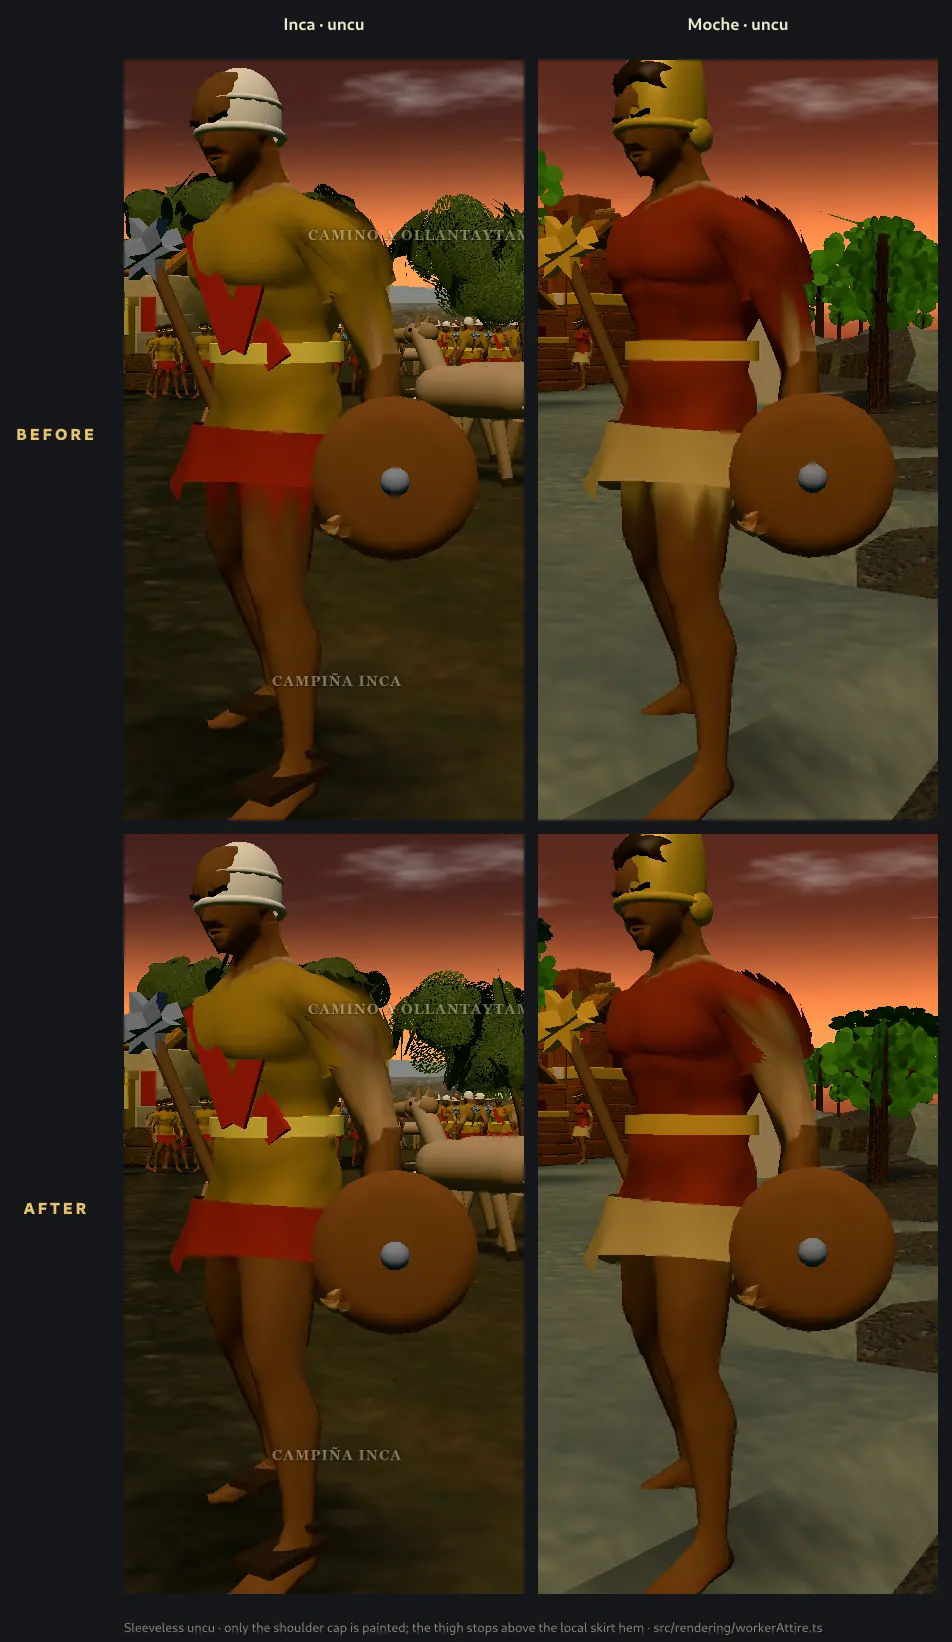
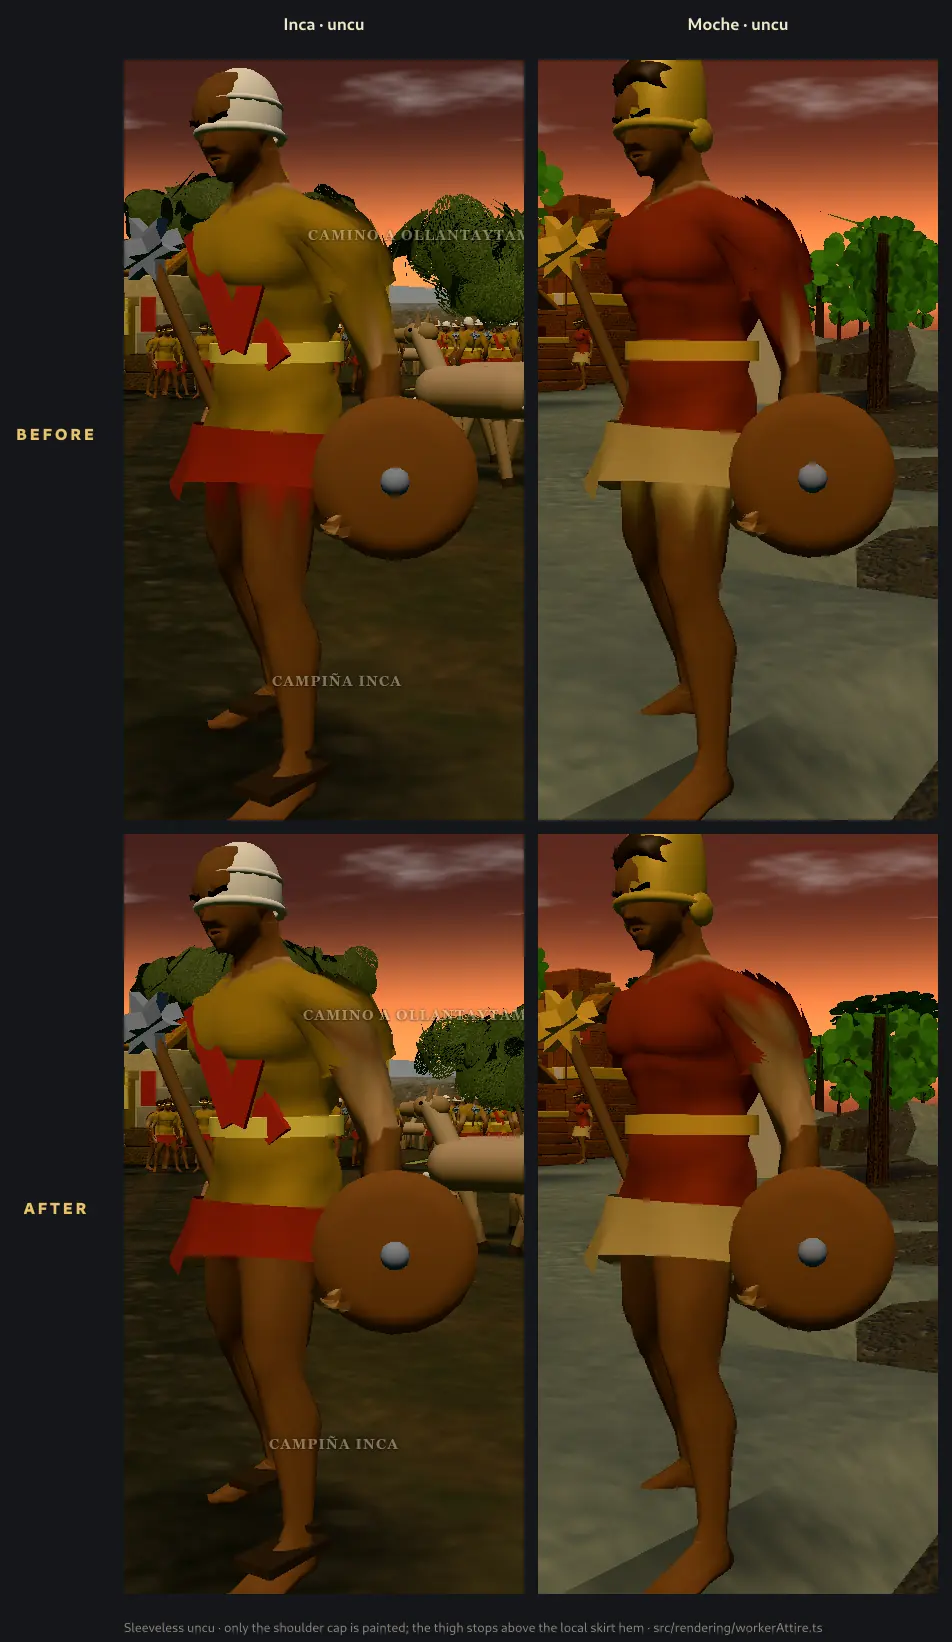
fix(characters): harden the hem bins and pin the paint gates
Review fixes on the Andean garment paint:

- Fill an empty angular hem bin from its nearest finite neighbour instead of the global lowest vertex,
  so a low-poly skirt cannot leave a residual band; share the angle-to-bin helper.
- The test now asserts the 4 cm shoulder gate (bare below shoulder - 0.045) and a cap of at least four
  vertices, and covers the chasqui skirt as well as the wrap and the female skirt.
- Record the actual before command (copy this branch's capture script into the `main` worktree and run
  it with `--out=review/paint-before`) and cite the sleeveless uncu to the existing LACMA / Museo de
  América sources in `atuendos.md`.
- The pilot doc no longer calls the tunic short-sleeved; it describes the shoulder cap and the local hem,
  and links the new evidence sheet.

diff --git a/src/rendering/workerAttire.ts b/src/rendering/workerAttire.ts
@@ -786,22 +786,39 @@ export function dressCaralWorker(rig: RigInstance, variant: RigVariant = 'caral_
       ? pelvis.getWorldPosition(new THREE.Vector3())
       : new THREE.Vector3().addVectors(lowerBox.min, lowerBox.max).multiplyScalar(0.5);
     const hem = new Array<number>(HEM_BINS).fill(Infinity);
+    const hemBin = (point: THREE.Vector3): number => {
+      const angle = Math.atan2(point.z - hip.z, point.x - hip.x);
+      return Math.floor(((angle + Math.PI) / (Math.PI * 2)) * HEM_BINS) % HEM_BINS;
+    };
     const skirt = lower as THREE.SkinnedMesh;
     const skirtPosition = lower.geometry.getAttribute('position');
     if (skirt.isSkinnedMesh && skirtPosition) {
       const point = new THREE.Vector3();
       for (let i = 0; i < skirtPosition.count; i++) {
         skirt.getVertexPosition(i, point).applyMatrix4(lower.matrixWorld);
-        const angle = Math.atan2(point.z - hip.z, point.x - hip.x);
-        const bin = Math.floor(((angle + Math.PI) / (Math.PI * 2)) * HEM_BINS) % HEM_BINS;
+        const bin = hemBin(point);
         hem[bin] = Math.min(hem[bin], point.y);
       }
     }
-    const hemAt = (point: THREE.Vector3): number => {
-      const angle = Math.atan2(point.z - hip.z, point.x - hip.x);
-      const bin = Math.floor(((angle + Math.PI) / (Math.PI * 2)) * HEM_BINS) % HEM_BINS;
-      return Number.isFinite(hem[bin]) ? hem[bin] : lowerBox.min.y;
-    };
+    // A low-poly skirt can leave a bin without a hem vertex; borrow the nearest finite bin, then fall
+    // back to the global lowest vertex rather than treating the gap as a higher hem.
+    for (let i = 0; i < HEM_BINS; i++) {
+      if (Number.isFinite(hem[i])) continue;
+      for (let step = 1; step < HEM_BINS; step++) {
+        const before = hem[(i - step + HEM_BINS) % HEM_BINS];
+        const after = hem[(i + step) % HEM_BINS];
+        if (Number.isFinite(before)) {
+          hem[i] = before;
+          break;
+        }
+        if (Number.isFinite(after)) {
+          hem[i] = after;
+          break;
+        }
+      }
+      if (!Number.isFinite(hem[i])) hem[i] = lowerBox.min.y;
+    }
+    const hemAt = (point: THREE.Vector3): number => hem[hemBin(point)];
     /**
      * The uncu is sleeveless: only the cap of the upper arm at the shoulder joint belongs to the tunic.
      * The rest of the upper arm stays skin, so the paint no longer draws a short sleeve.

diff --git a/tests/andean-tunic-paint.test.ts b/tests/andean-tunic-paint.test.ts
@@ -230,6 +230,7 @@ describe('Andean tunic body paint', () => {
       ['inca_soldier_m', true, 'attire_wrap_m'],
       ['moche_soldier_m', true, 'attire_wrap_m'],
       ['inca_soldier_f', false, 'attire_skirt_f'],
+      ['inca_chasqui_f', false, 'attire_skirt_chasqui_f'],
     ] as const) {
       const rig = acquireRig('caral_worker', variant)!;
       try {
@@ -244,12 +245,12 @@ describe('Andean tunic body paint', () => {
           for (let i = 0; i < bones.length; i++) {
             if (bones[i] !== `upperarm_${side}`) continue;
             body.getVertexPosition(i, point).applyMatrix4(body.matrixWorld);
-            if (point.y < shoulderY - 0.06) {
+            if (point.y < shoulderY - 0.045) {
               expect(paintAlpha(body, i), `${variant} bare ${side} arm vertex ${i}`).toBe(0);
             }
             if (point.y >= shoulderY - 0.02 && paintAlpha(body, i) === 1) cap++;
           }
-          expect(cap, `${variant} shoulder cap ${side}`).toBeGreaterThan(0);
+          expect(cap, `${variant} shoulder cap ${side}`).toBeGreaterThanOrEqual(4);
         }
 
         const lower = rig.root.getObjectByName(lowerName) as THREE.SkinnedMesh;

diff --git a/docs/art/character-visual-pilot.md b/docs/art/character-visual-pilot.md
@@ -570,13 +570,17 @@ What changed:
 | Bare arms and legs | skin | still skin: only the garment volumes are painted |
 | Hero (Ayar Manco) | the palette tint under the longer uncu | follows the accent after `dressHero` |
 
-The classifier cannot use bone names alone (the tunic is short-sleeved and the skirt stops at the hem), and a
-garment-wide box would paint the hands, which hang inside the tunic's box in the bind pose. `workerAttire.ts`
+The classifier cannot use bone names alone (the uncu is sleeveless and the skirt stops at an uneven hem), and
+a garment-wide box would paint the hands, which hang inside the tunic's box in the bind pose. `workerAttire.ts`
 therefore takes the **posed world boxes of the tunic and skirt meshes** and gates them by the body's dominant
-bone: `spine`/`clavicle`/`upperarm` for the tunic and `pelvis`/`thigh`/`spine_01` for the skirt. The skirt is
-the outer layer at the waist and wins the overlap; the hero's longer uncu is recognized by its tunic box
-reaching below the wrap, and `UnitView.dressHero` repaints the body with the commander accent after retinting
-the cloth.
+bone: `spine`/`clavicle` and the shoulder cap of `upperarm` for the tunic, and `pelvis`/`thigh`/`spine_01` for
+the skirt. The skirt is the outer layer at the waist and wins the overlap; its thigh boundary follows the
+local hem sampled in 24 angular bins, so no cloth band runs down the bare leg. The hero's longer uncu is
+recognized by its tunic box reaching below the wrap, and `UnitView.dressHero` repaints the body with the
+commander accent after retinting the cloth.
+
+Evidence for the sleeve and hem correction: `docs/media/andean-garment-paint-before-after.webp` (Inca and
+Moche at the close frame, before and after).
 
 The colour is the garment's own: the mean of the cotton weave texture (`#c3b18b`) times the material's tinted
 colour, so the patch matches the Inca gold, the Moche red or Caral's cream. The body is a textured draw of its

diff --git a/PROVENANCE.md b/PROVENANCE.md
@@ -1397,14 +1397,16 @@ slot is absent (offline / without assets).
 
 - **Location**: `docs/media/andean-garment-paint-before-after.webp`, 952x1642 WebP q76.
 - **Source**: `node scripts/capture_character_pilot.mjs --only=inca,moche --close --out=review/paint-after`;
-  the before row runs the same script from a worktree at `main`, with the same seed, light, camera and
-  close frame. Then `node scripts/andean_paint_sheet.mjs --before=review/paint-before --after=review/paint-after
-  --out=docs/media/andean-garment-paint-before-after.webp`.
+  the before row copies this PR's `capture_character_pilot.mjs` into a worktree at `main` (only
+  `src/rendering/workerAttire.ts` differs) and runs it with `--out=review/paint-before`, same seed, light,
+  camera and close frame. Then `node scripts/andean_paint_sheet.mjs --before=review/paint-before
+  --after=review/paint-after --out=docs/media/andean-garment-paint-before-after.webp`.
 - **Content**: the Inca and Moche warriors at the close frame; the before row has tunic-coloured upper arms
   (a short sleeve) and a cloth band on the moche thigh, the after row has skin arms with only the shoulder
   cap painted and a clean thigh under the skirt.
-- **Review**: no historical change; the sleeveless uncu and the bare thigh are the documented garment
-  (`docs/historia/atuendos.md` §1–2). This is a body-paint capture, not new geometry.
+- **Review**: no historical change; the uncu is documented as sleeveless in `docs/historia/atuendos.md` §1
+  (sources LACMA, Museo de América), and the thigh is bare below the short wrap/skirt of the same outfit.
+  This is a body-paint capture, not new geometry.
 
 
 

diff --git a/docs/historia/atuendos.md b/docs/historia/atuendos.md
@@ -33,7 +33,7 @@ era). Donde un dato no está atestiguado se indica **«no documentado»**; no se
 - **Defensa mejor desarrollada que en otras zonas: cascos y armadura acolchada** (real protección
   contra hondas y dardos); **escudos (rodelas)** conocidos. — Métraux, *Weapons*.
 - **Prendas base**: **uncu/túnica** masculina tejida en tapiz (algodón + fibra de camélido) con
-  abertura central para la cabeza, **sobre un taparrabos**; telas finas (**cumbi**) reservadas a
+  abertura central para la cabeza, **sin mangas**, **sobre un taparrabos**; telas finas (**cumbi**) reservadas a
   élites y rituales; patrones de **tocapu** (motivos geométricos) y **ajedrezado con canesú rojo en V**
   (asociado a jefes militares/mando). — LACMA, *The Andean Uncu*; Dumbarton Oaks, *All T'oqapu Tunic*;
   The Met, *Tunic (Inca)*; NGA *Gold and the Incas*; Museo de América, *Uncu inca*.
